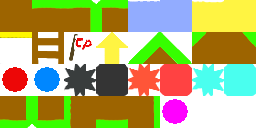
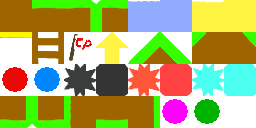
u

Changed region(s): [[0.75, 0.7812, 0.875, 0.9688]]

diff --git a/gameV2/js/main.js b/gameV2/js/main.js
@@ -107,14 +107,14 @@ map = [
 	[22,11,09,11,22,00,00,00,00,00,26,00,00,00,00,00,00,00,00,00,00,00,00,00,00,00,00,00,00,22,00,00,00,00,00,00,00,00,00,00,00,00,00,00,00,00,00,00,00,00,00,00,00,00,00,00,00,00,00,00,00,00,00,00,00,00,00,00,00,00,00,00,00,00,00,00,00,00,00,00,00,00,00,00,00,00,00,00,00,00,00],//02
 	[22,22,22,22,22,05,00,00,00,00,26,00,00,00,00,00,00,00,00,00,00,00,00,00,00,00,00,00,00,22,00,00,00,00,00,00,00,00,00,00,00,00,00,00,00,00,00,00,00,00,00,00,00,00,00,00,00,00,00,00,00,00,00,00,00,00,00,00,00,00,00,00,00,00,00,00,00,00,00,00,00,00,00,00,00,00,00,00,00,00,00],//03
 	[00,00,00,00,00,00,00,00,00,00,26,00,00,00,00,00,00,00,00,00,00,00,00,00,00,00,00,00,00,22,00,00,00,00,00,00,00,00,00,00,00,00,00,00,00,00,00,00,00,00,00,00,00,00,00,00,00,00,00,00,00,00,00,00,00,00,00,00,00,00,00,00,00,00,00,00,00,00,00,00,00,00,00,00,00,00,00,00,00,00,00],//04
-	[00,00,00,00,00,00,05,05,00,00,26,00,00,00,00,00,00,00,00,00,00,00,00,00,00,00,00,00,11,22,00,00,00,00,00,00,00,00,00,00,00,00,00,00,00,00,00,00,00,00,00,00,00,00,00,00,00,00,00,00,00,00,00,00,00,00,00,00,00,00,00,00,00,00,00,00,00,00,00,00,00,00,00,00,00,00,00,00,00,00,00],//05
+	[00,00,00,00,00,00,05,05,00,00,26,00,00,00,00,00,00,00,00,00,00,00,00,00,00,00,00,00,00,22,00,00,00,00,00,00,00,00,00,00,00,00,00,00,00,00,00,00,00,00,00,00,00,00,00,00,00,00,00,00,00,00,00,00,00,00,00,00,00,00,00,00,00,00,00,00,00,00,00,00,00,00,00,00,00,00,00,00,00,00,00],//05
 	[00,00,00,00,00,00,00,00,00,00,26,00,00,00,00,00,00,00,00,00,00,00,00,00,00,00,00,00,00,22,00,00,00,00,00,00,00,00,00,00,00,00,00,00,00,00,00,00,00,00,00,00,00,00,00,00,00,00,00,00,00,00,00,00,00,00,00,00,00,00,00,00,00,00,00,00,00,00,00,00,00,00,00,00,00,00,00,00,00,00,00],//06
-	[00,00,00,00,00,00,00,00,05,05,26,00,00,00,00,00,00,00,00,00,00,00,00,00,00,00,00,11,00,22,00,00,00,00,00,00,00,00,00,00,00,00,00,00,00,00,00,00,00,00,00,00,00,00,00,00,00,00,00,00,00,00,00,00,00,00,00,00,00,00,00,00,00,00,00,00,00,00,00,00,00,00,00,00,00,00,00,00,00,00,00],//07
-	[00,00,00,00,00,00,00,00,00,00,26,00,00,00,00,00,00,00,00,00,00,00,00,00,00,00,00,00,00,24,00,22,00,00,00,00,00,00,00,00,00,00,00,00,00,00,00,00,00,00,00,00,00,00,00,00,00,00,00,00,00,00,00,00,00,00,00,00,00,00,00,00,00,00,00,00,00,00,00,00,00,00,00,00,00,00,00,00,00,00,00],//08
-	[00,00,00,00,00,00,05,05,00,00,26,00,00,00,00,00,00,00,00,00,00,00,00,00,00,00,00,00,00,24,00,00,00,00,00,00,00,00,00,00,00,00,00,00,00,00,00,00,00,00,00,00,00,00,00,00,00,00,00,00,00,00,00,00,00,00,00,00,00,00,00,00,00,00,00,00,00,00,00,00,00,00,00,00,00,00,00,00,00,00,00],//09
-	[00,00,00,00,00,00,00,00,00,00,26,00,00,00,36,00,00,00,00,00,00,00,00,00,00,00,00,00,00,24,00,00,00,00,00,00,00,00,00,00,00,00,00,00,00,00,00,00,00,00,00,00,00,00,00,00,00,00,00,00,00,00,00,00,00,00,00,00,00,00,00,00,00,00,00,00,00,00,00,00,00,00,00,00,00,00,00,00,00,00,00],//10
-	[00,00,00,00,00,00,00,00,05,05,00,00,00,00,00,00,00,00,00,00,00,00,00,00,00,00,00,00,00,24,00,00,00,00,00,13,00,00,00,00,00,00,00,00,00,00,00,00,00,00,00,00,00,00,00,00,00,00,00,00,00,00,00,00,00,00,00,00,00,00,00,00,00,00,00,00,00,00,00,00,00,00,00,00,00,00,00,00,00,00,00],//11
-	[00,00,10,00,00,00,00,00,00,00,00,00,00,00,00,00,00,00,00,00,00,00,00,00,00,00,00,00,00,22,00,00,00,00,00,00,00,00,00,00,00,00,00,00,00,00,00,00,00,00,00,00,00,00,00,00,00,00,00,00,00,00,00,00,00,00,00,00,00,00,00,00,00,00,00,00,00,00,00,00,00,00,00,00,00,00,00,00,00,00,00],//12
+	[00,00,00,00,00,00,00,00,05,05,26,00,00,00,00,00,00,00,00,00,00,00,00,00,00,00,00,00,00,22,00,00,00,00,00,00,00,00,00,00,00,00,00,00,00,00,00,00,00,00,00,00,00,00,00,00,00,00,00,00,00,00,00,00,00,00,00,00,00,00,00,00,00,00,00,00,00,00,00,00,00,00,00,00,00,00,00,00,00,00,00],//07
+	[00,00,00,00,00,00,00,00,00,00,26,00,00,00,00,00,00,00,00,00,00,00,00,00,00,00,00,00,00,24,37,22,00,00,00,00,00,00,00,00,00,00,00,00,00,00,00,00,00,00,00,00,00,00,00,00,00,00,00,00,00,00,00,00,00,00,00,00,00,00,00,00,00,00,00,00,00,00,00,00,00,00,00,00,00,00,00,00,00,00,00],//08
+	[00,00,00,00,00,00,05,05,00,00,26,00,00,00,00,00,00,00,00,00,00,00,00,00,00,00,00,00,00,24,37,00,00,00,00,00,00,00,00,00,00,00,00,00,00,00,00,00,00,00,00,00,00,00,00,00,00,00,00,00,00,00,00,00,00,00,00,00,00,00,00,00,00,00,00,00,00,00,00,00,00,00,00,00,00,00,00,00,00,00,00],//09
+	[00,00,00,00,00,00,00,00,00,00,26,00,00,00,36,00,00,00,00,00,00,00,00,00,00,00,00,00,00,24,37,00,00,00,00,00,00,00,00,00,00,00,00,00,00,00,00,00,00,00,00,00,00,00,00,00,00,00,00,00,00,00,00,00,00,00,00,00,00,00,00,00,00,00,00,00,00,00,00,00,00,00,00,00,00,00,00,00,00,00,00],//10
+	[00,00,00,00,00,00,00,00,05,05,00,00,00,00,00,00,00,00,00,00,00,00,00,00,00,00,00,00,00,24,37,00,00,00,00,13,00,00,00,00,00,00,00,00,00,00,00,00,00,00,00,00,00,00,00,00,00,00,00,00,00,00,00,00,00,00,00,00,00,00,00,00,00,00,00,00,00,00,00,00,00,00,00,00,00,00,00,00,00,00,00],//11
+	[00,00,10,00,00,00,00,00,00,00,00,00,00,00,00,00,00,00,11,00,00,00,00,00,00,00,00,00,00,22,00,00,00,00,00,00,00,00,00,00,00,00,00,00,00,00,00,00,00,00,00,00,00,00,00,00,00,00,00,00,00,00,00,00,00,00,00,00,00,00,00,00,00,00,00,00,00,00,00,00,00,00,00,00,00,00,00,00,00,00,00],//12
 	[02,02,02,02,02,02,02,03,24,24,04,02,02,02,02,02,02,02,02,02,02,02,02,02,02,02,02,02,02,02,02,02,02,02,02,02,02,02,02,02,02,02,02,02,02,02,02,02,02,02,02,02,02,02,02,02,02,02,02,02,02,02,02,02,02,02,02,02,02,02,02,02,02,02,02,02,02,02,02,02,02,02,02,02,02,02,02,02,02,02,02],//13
 	[01,01,01,01,01,01,01,34,00,00,35,01,01,01,01,01,01,01,01,01,01,01,01,01,01,01,01,01,01,01,01,01,01,01,01,01,01,01,01,01,01,01,01,01,01,01,01,01,01,01,01,01,01,01,01,01,01,01,01,01,01,01,01,01,01,01,01,01,01,01,01,01,01,01,01,01,01,01,01,01,01,01,01,01,01,01,01,01,01,01,01] //14
 ];
@@ -154,6 +154,7 @@ var keyX = new Array();var keyY = new Array();
 var keyBX = new Array();var keyBY = new Array();
 var cpX = new Array();var cpY = new Array();
 var powerX = new Array();var powerY = new Array();
+var depowerX = new Array();var depowerY = new Array();
 if (playerturn==0) {ctx.drawImage(playerR,x,y,32,32)}
 else if (playerturn==1) {ctx.drawImage(playerL,x,y,32,32)};
 for (var my=0; my<map.length; my++){for (var mx=0; mx<map[my].length; mx++){
@@ -191,6 +192,7 @@ for (var my=0; my<map.length; my++){for (var mx=0; mx<map[my].length; mx++){
 /*dirtLB*/ 	if (map[my][mx] === 34) {ctx.drawImage( mapchip, 128, 96, 32, 32, 32*mx, 32*my, 32, 32 );blocksX.push(mx*32);blocksY.push(my*32)}
 /*dirtRB*/ 	if (map[my][mx] === 35) {ctx.drawImage( mapchip, 64, 96, 32, 32, 32*mx, 32*my, 32, 32 );blocksX.push(mx*32);blocksY.push(my*32)}
 /*power*/ 	if (map[my][mx] === 36&&!power) {ctx.drawImage( mapchip, 160, 96, 32, 32, 32*mx, 32*my, 32, 32 );powerX.push(mx*32);powerY.push(my*32)}
+/*depower*/ 	if (map[my][mx] === 37&&power) {ctx.drawImage( mapchip, 192, 96, 32, 32, 32*mx, 32*my, 32, 32 );depowerX.push(mx*32);depowerY.push(my*32)}
 }}
 /*BLOCK*/
 if (inkey[39]) {x=x+xspeed;playerturn=0;}
@@ -333,6 +335,26 @@ if (x>powerX[i]-hitboxX&&powerX[i]>x&&y>powerY[i]-hitboxX&&powerY[i]+hitboxX>y) 
 else if (x>powerX[i]&&powerX[i]+hitboxX>x&&y>powerY[i]-hitboxX&&powerY[i]+hitboxX>y) {power=true;getk.play()}
 }
 /*power-------------------------------------------------------------------------------------------*/
+
+/*depower*/
+for (var i=0;i<powerY.length;i++) {
+	if (
+	y+hitboxY>powerY[i]&&
+	y<powerY[i]&&
+	x<powerX[i]+hitboxX-2&&
+	x>powerX[i]-hitboxX+2
+	) {power=false;getk.play()}
+	else if (
+	y>powerY[i]&&
+	y-hitboxY<powerY[i]&&
+	x<powerX[i]+hitboxX-2&&
+	x>powerX[i]-hitboxX+2
+	) {power=false;getk.play()}
+if (x>powerX[i]-hitboxX&&powerX[i]>x&&y>powerY[i]-hitboxX&&powerY[i]+hitboxX>y) {power=false;getk.play()}
+else if (x>powerX[i]&&powerX[i]+hitboxX>x&&y>powerY[i]-hitboxX&&powerY[i]+hitboxX>y) {power=false;getk.play()}
+}
+/*depower-------------------------------------------------------------------------------------------*/
+
 
 /*enemy*/
 for (var i=0;i<enemyY.length;i++) {
